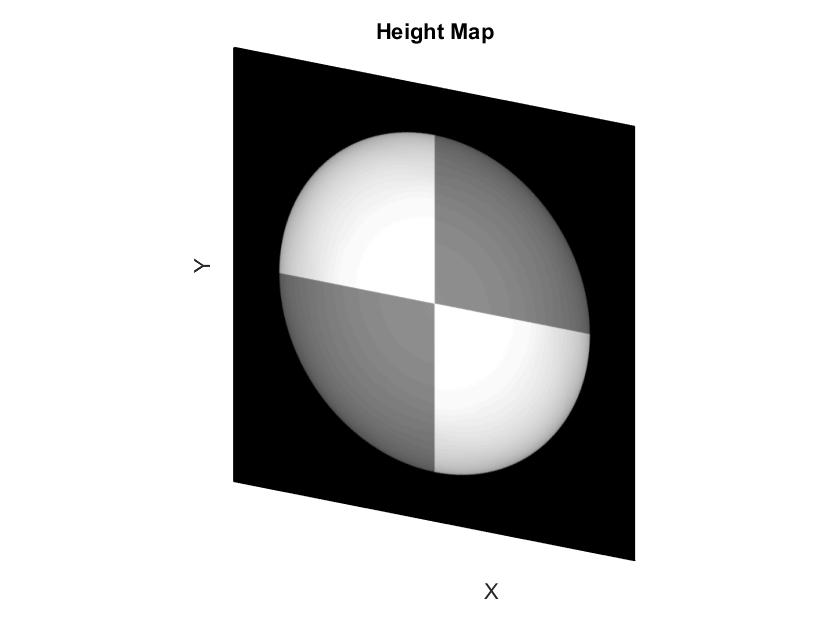
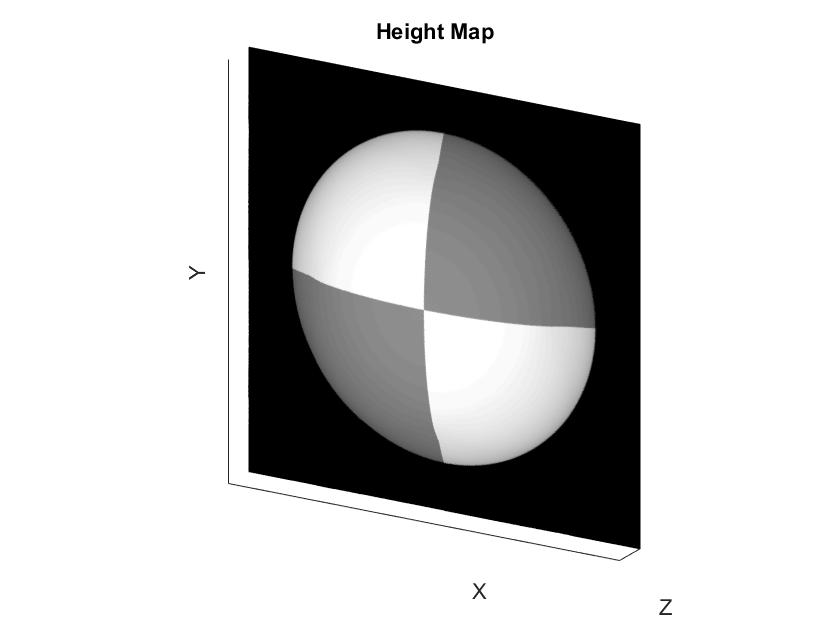
color mode

diff --git a/photometric/photometric_stereo.m b/photometric/photometric_stereo.m
@@ -20,8 +20,8 @@ end
 for channel = 1:max_channel
     [image_stack, scriptV] = load_syn_images(image_dir,channel);
     if channel > 1
-        image_stack = cat(3,image_stack,image_stack2);
-        scriptV = cat(1,scriptV, scriptV2);
+        image_stack = cat(3,image_stack2,image_stack);
+        scriptV = cat(1,scriptV2, scriptV);
     end
     image_stack2 = image_stack;
     scriptV2 = scriptV;

diff --git a/photometric/construct_surface.m b/photometric/construct_surface.m
@@ -15,7 +15,7 @@ end
 height_map = zeros(h, w);
 
 switch path_type
-    case 'column'
+    case 'row'
         % =================================================================
         % YOUR CODE GOES HERE
         % top left corner of height_map is zero
